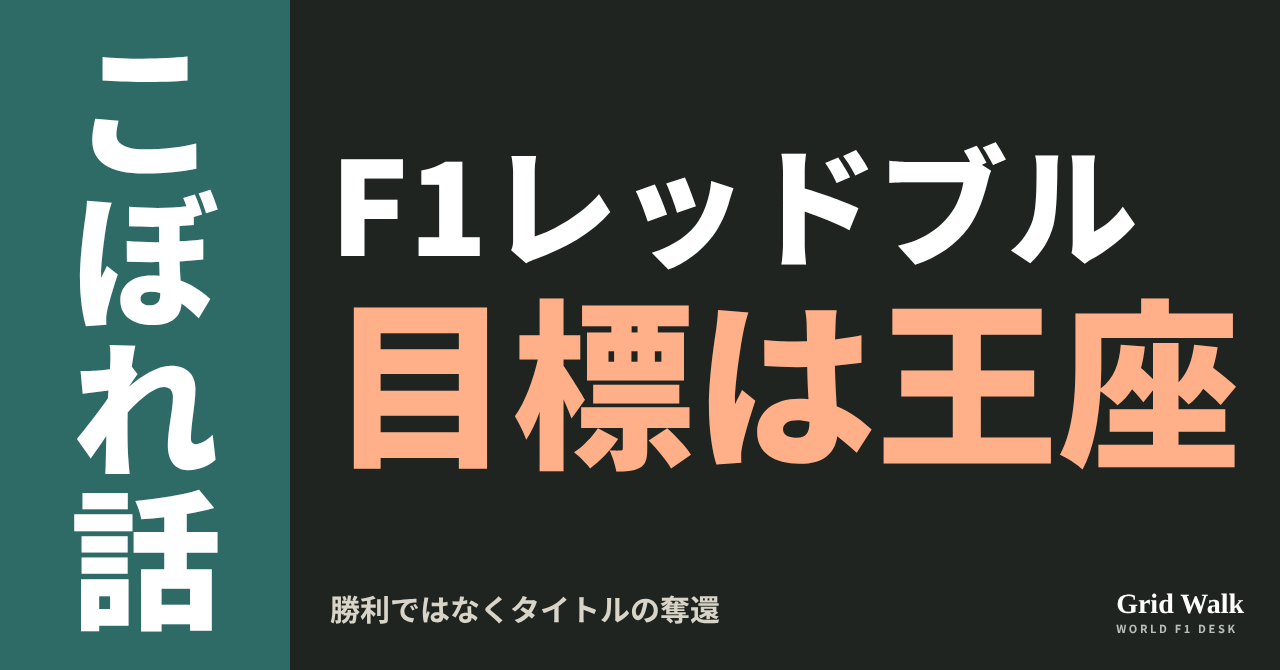
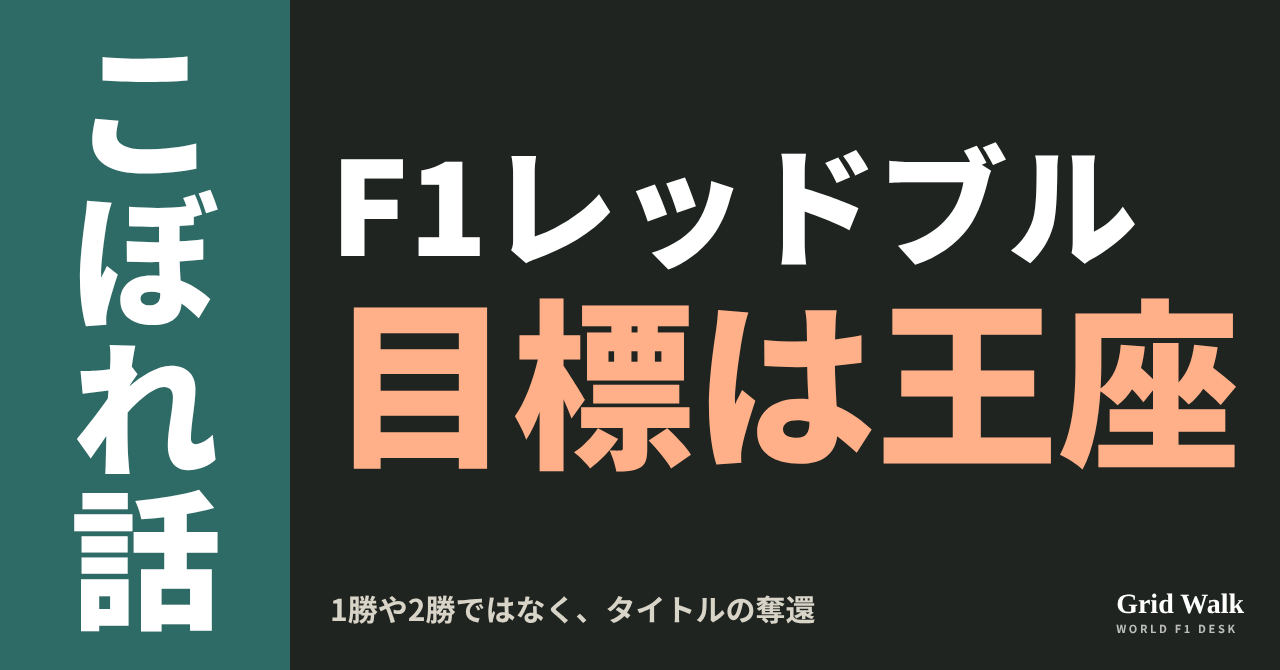
desk: 11/12の画像候補R3を差し替え
Claude-Session: https://claude.ai/code/session_01LGMvzb8B3aK7DkzCCi7qDe

Changed region(s): [[0.25, 0.8657, 0.6562, 0.9552]]

diff --git a/desk/pending/1112/R3.html b/desk/pending/1112/R3.html
@@ -11,7 +11,7 @@ em{font-style:normal;color:#FFB089}
 .br{position:absolute;right:36px;bottom:34px;font:700 28px Georgia,serif}.br small{display:block;font:700 11px 'Noto Sans CJK JP';letter-spacing:.24em;opacity:.7}
 .row{display:flex;align-items:center;gap:28px;white-space:nowrap;font-weight:900}
 .row svg{flex:0 0 auto}
-</style><div class=c><div class=p><b>こぼれ話</b></div><div class=r><div class=l1>F1レッドブル</div><div class=l2><em>目標は王座</em></div></div><div class=s>勝利ではなくタイトルの奪還</div><div class=br>Grid Walk<small>WORLD F1 DESK</small></div></div>
+</style><div class=c><div class=p><b>こぼれ話</b></div><div class=r><div class=l1>F1レッドブル</div><div class=l2><em>目標は王座</em></div></div><div class=s>1勝や2勝ではなく、タイトルの奪還</div><div class=br>Grid Walk<small>WORLD F1 DESK</small></div></div>
 <script>
 document.querySelectorAll('.l1,.l2,.l3,.s,.row').forEach(el=>{let f=parseFloat(getComputedStyle(el).fontSize);while(el.scrollWidth>el.clientWidth+1&&f>20){f-=2;el.style.fontSize=f+'px'}});
 const r=document.querySelector('.r');let n=0;while(r.scrollHeight>r.clientHeight+1&&n++<80){document.querySelectorAll('.l1,.l2,.l3,.row').forEach(el=>{el.style.fontSize=(parseFloat(getComputedStyle(el).fontSize)-3)+'px'})}
